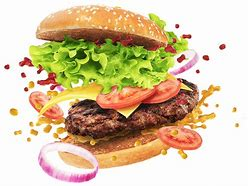
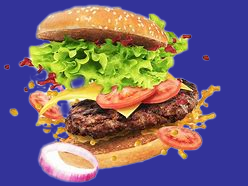
HTML looks good -- issues with jquery

diff --git a/test.html b/test.html
@@ -17,7 +17,7 @@
             
                         <img src="public/assets/image/untitled.png" alt="burger image">
             
-                        <h2>Eat-Da-Burger!</h2>
+                        <h1>Eat-Da-Burger!</h1>
             
                     </div>
             
@@ -71,9 +71,9 @@
             
                             </div>
             
-                            <button type="submit" class="btn btn-primary">Add Yer Favorite Burger!</button>
+                            <button type="submit" class="btn btn-primary" id="submitButton">Add Yer Favorite Burger!</button>
             
-                            <p>Type in the name of the burger you want to devour and and click the button</p>
+                            <p id="buttonText">Type in the name of the burger you want to devour and and click the button</p>
             
                         </form>
             

diff --git a/public/assets/style/burger_style.css b/public/assets/style/burger_style.css
@@ -1,20 +1,14 @@
 body{
 
-    background-color:;
-
+    background-color:#333399;
     text-align: center;
+    padding-top: 40px;
+};
 
-    padding-top: 30px;
-
-}
-
-
-
-.burger-form > button[type=submit]{
-
+/* .burger-form > button[type=submit]{
     margin: 15px 0;
 
-}
+} */
 
 
 
@@ -36,8 +30,13 @@ body{
 
 
 
-h2{
-
+h1{
     color: #f30;
+    font-weight: bold;
 
+}
+
+p {
+    color:  white;
+    margin-top: 5px;
 }

diff --git a/public/assets/logic/burger_logic.js b/public/assets/logic/burger_logic.js
@@ -50,7 +50,7 @@ $(function () {
 
             }).then(function () {
 
-                console.log("New burger has been added!");
+                console.log("New burger on Deck!");
 
                 location.reload();
 
